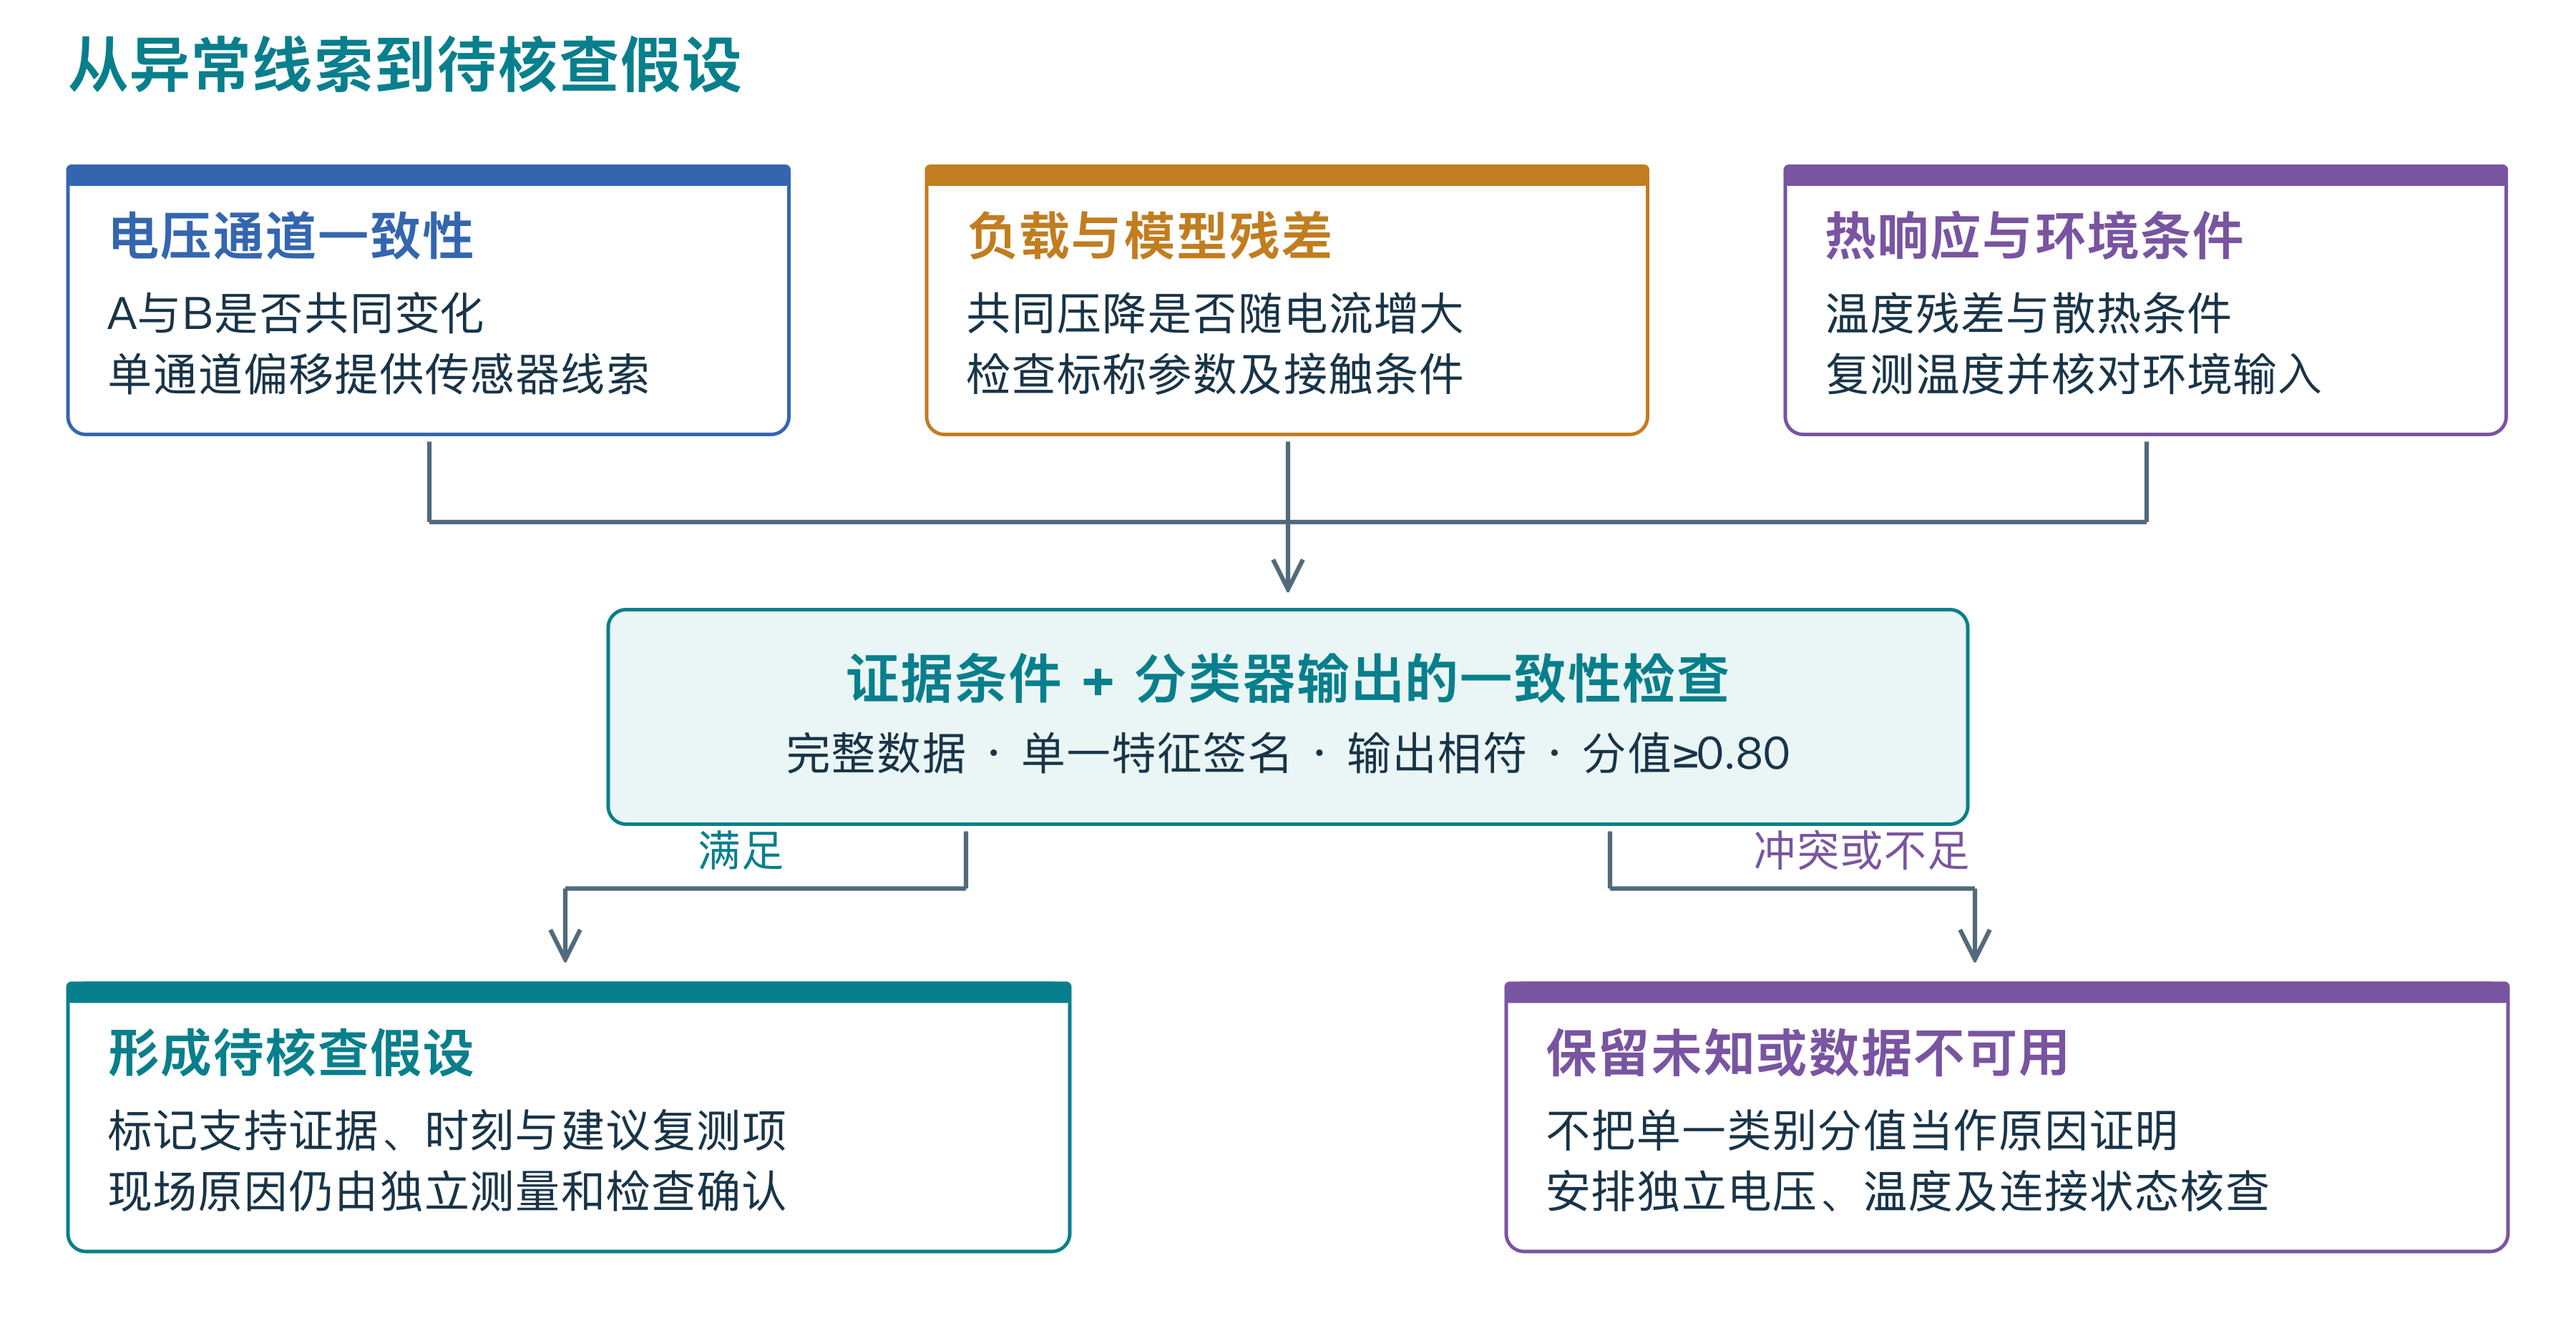
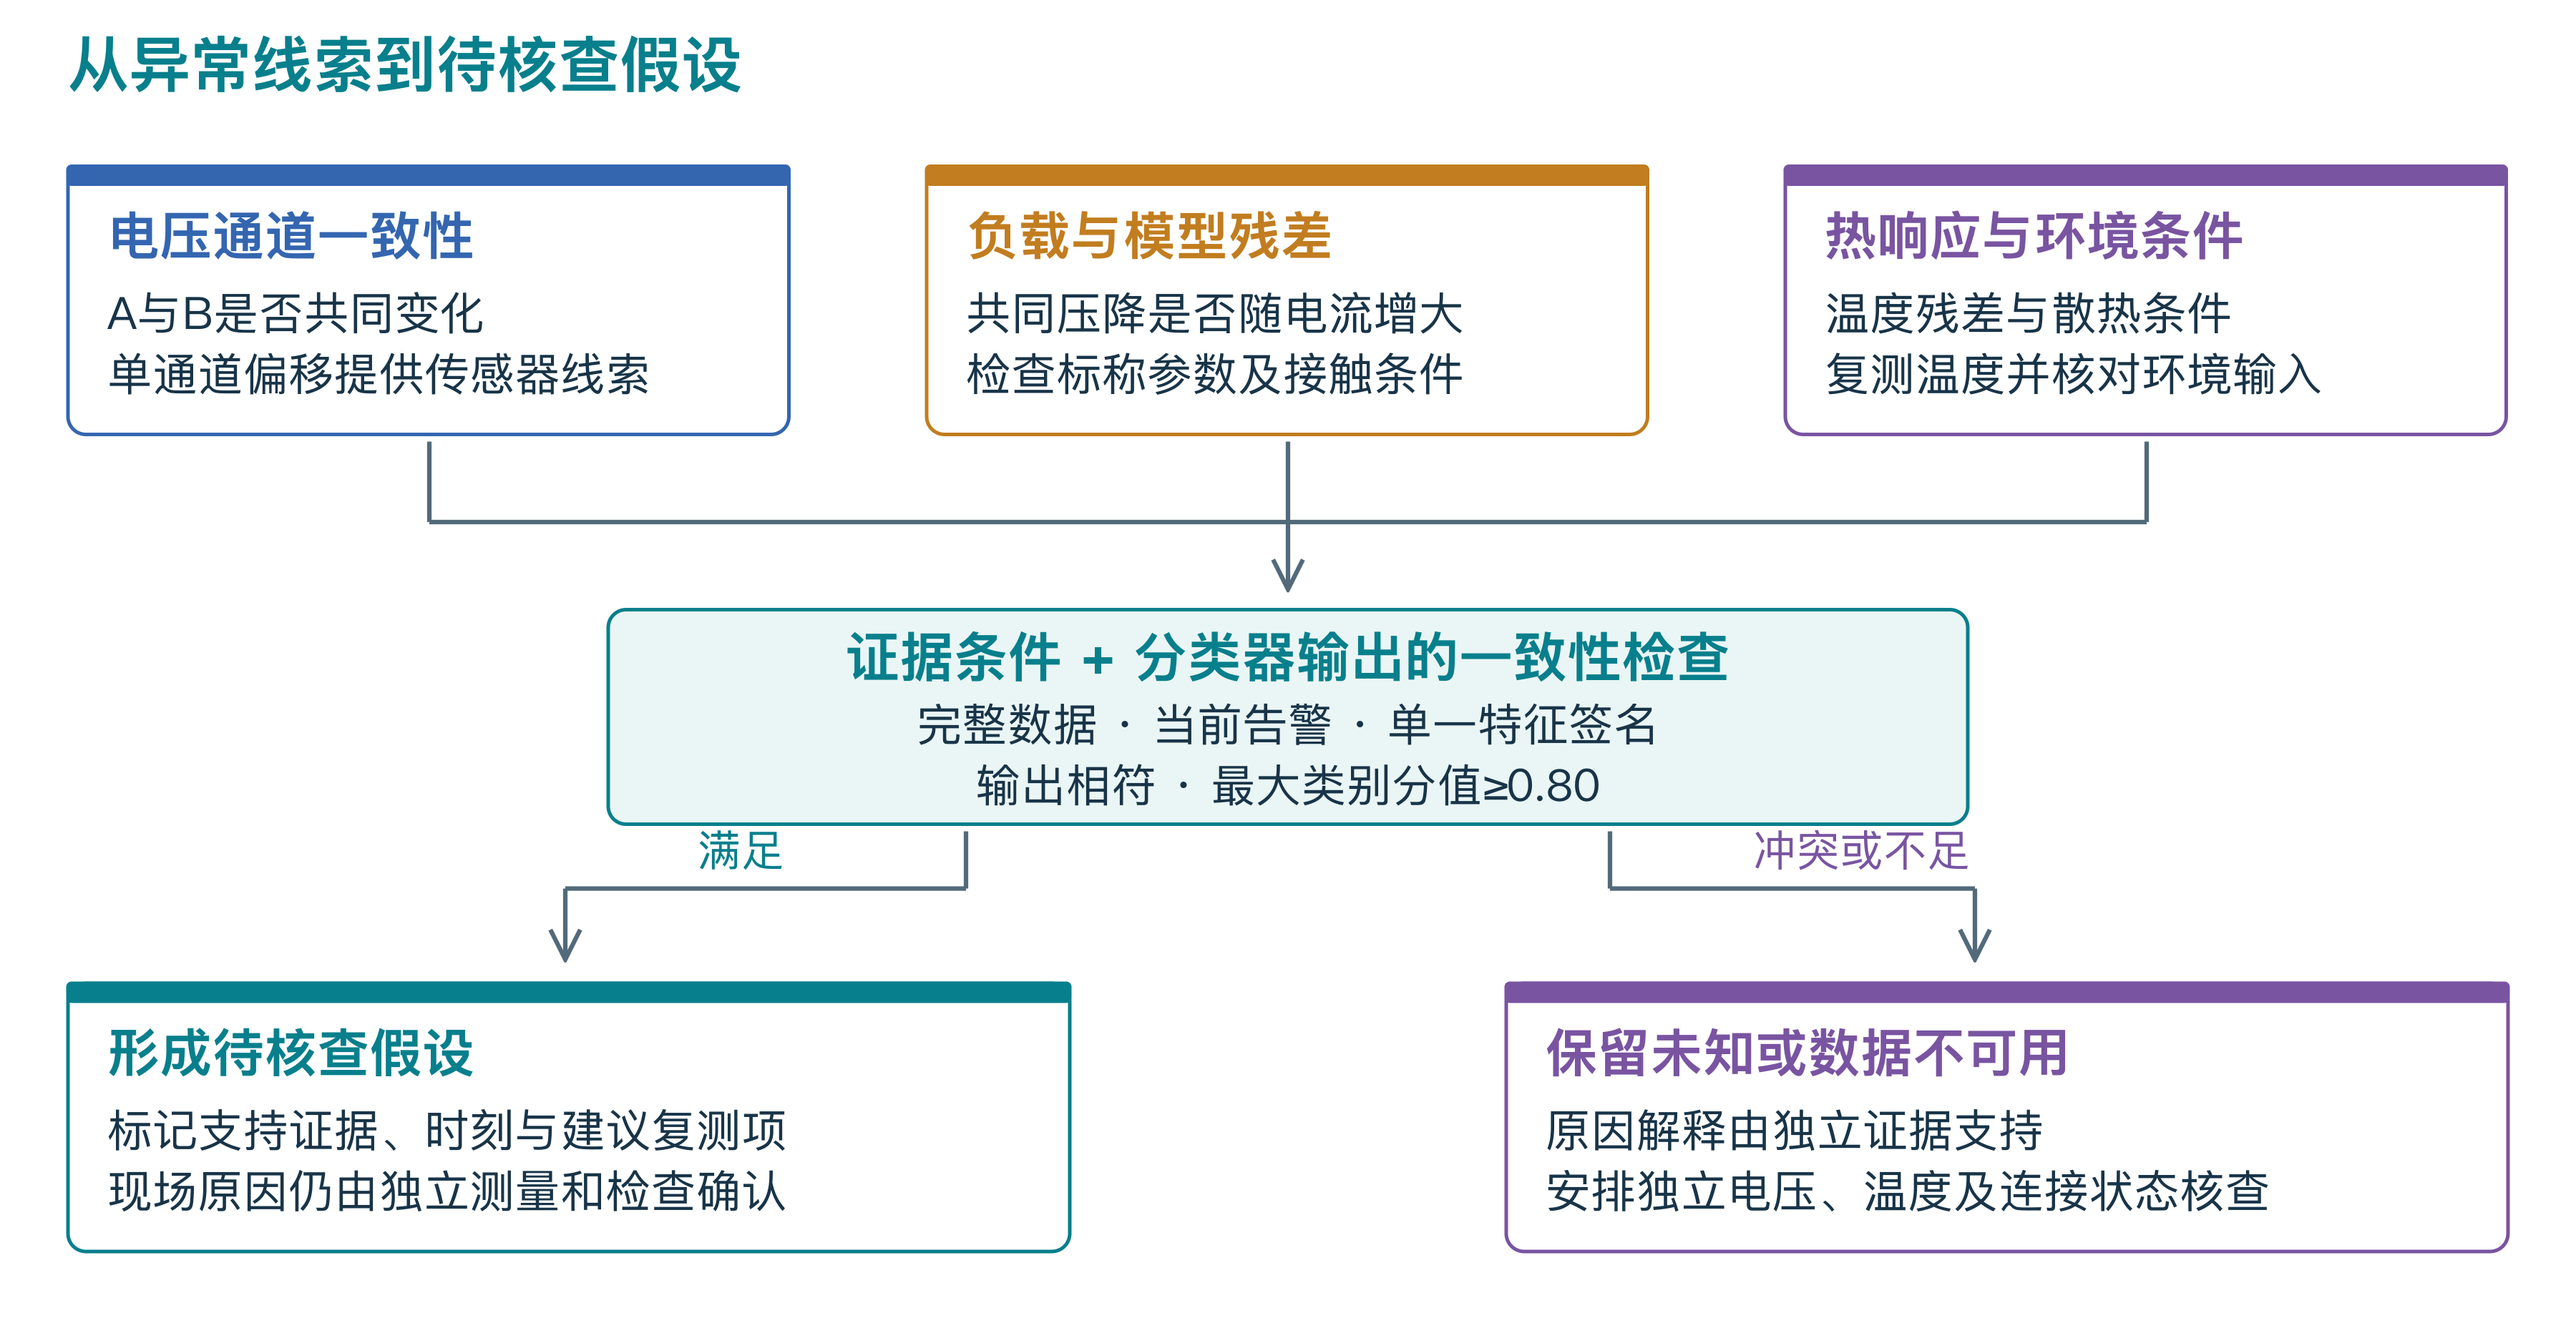
Align chapter 3 diagnostic diagram with alarm and evidence gates

Changed region(s): [[0.3111, 0.4622, 0.7156, 0.6162], [0.5911, 0.8319, 0.84, 0.8935]]

diff --git a/chapters/ch03/draw_diagrams.py b/chapters/ch03/draw_diagrams.py
@@ -27,12 +27,12 @@ def draw(out):
  s=txt(38,48,'从异常线索到待核查假设',34,TEAL,weight=600)
  for x,title,ls,c in [(38,'电压通道一致性',['A与B是否共同变化','单通道偏移提供传感器线索'],BLUE),(518,'负载与模型残差',['共同压降是否随电流增大','检查标称参数及接触条件'],AMBER),(998,'热响应与环境条件',['温度残差与散热条件','复测温度并核对环境输入'],PURPLE)]:s+=card(x,93,403,title,ls,c)
  for x in [240,720,1200]:s+=line(x,247,x,292)+line(x,292,720,292)
- s+=line(720,292,720,328,arrow=True)+rect(340,341,760,120,'#EAF6F5',TEAL)+txt(720,390,'证据条件 + 分类器输出的一致性检查',30,TEAL,'middle',600)+txt(720,430,'完整数据 · 单一特征签名 · 输出相符 · 分值≥0.80',25,INK,'middle')
+ s+=line(720,292,720,328,arrow=True)+rect(340,341,760,120,'#EAF6F5',TEAL)+txt(720,378,'证据条件 + 分类器输出的一致性检查',30,TEAL,'middle',600)+txt(720,414,'完整数据 · 当前告警 · 单一特征签名',25,INK,'middle')+txt(720,448,'输出相符 · 最大类别分值≥0.80',25,INK,'middle')
  s+=line(540,465,540,497)+line(540,497,316,497)+line(316,497,316,535,arrow=True)
  s+=line(900,465,900,497)+line(900,497,1104,497)+line(1104,497,1104,535,arrow=True)
  s+=txt(390,484,'满足',24,TEAL)+txt(980,484,'冲突或不足',24,PURPLE)
  s+=card(38,550,560,'形成待核查假设',['标记支持证据、时刻与建议复测项','现场原因仍由独立测量和检查确认'],TEAL)
- s+=card(842,550,560,'保留未知或数据不可用',['不把单一类别分值当作原因证明','安排独立电压、温度及连接状态核查'],PURPLE)
+ s+=card(842,550,560,'保留未知或数据不可用',['原因解释由独立证据支持','安排独立电压、温度及连接状态核查'],PURPLE)
  save(out,'3.7',740,s)
  print('2 conceptual diagrams generated')
 if __name__=='__main__':
